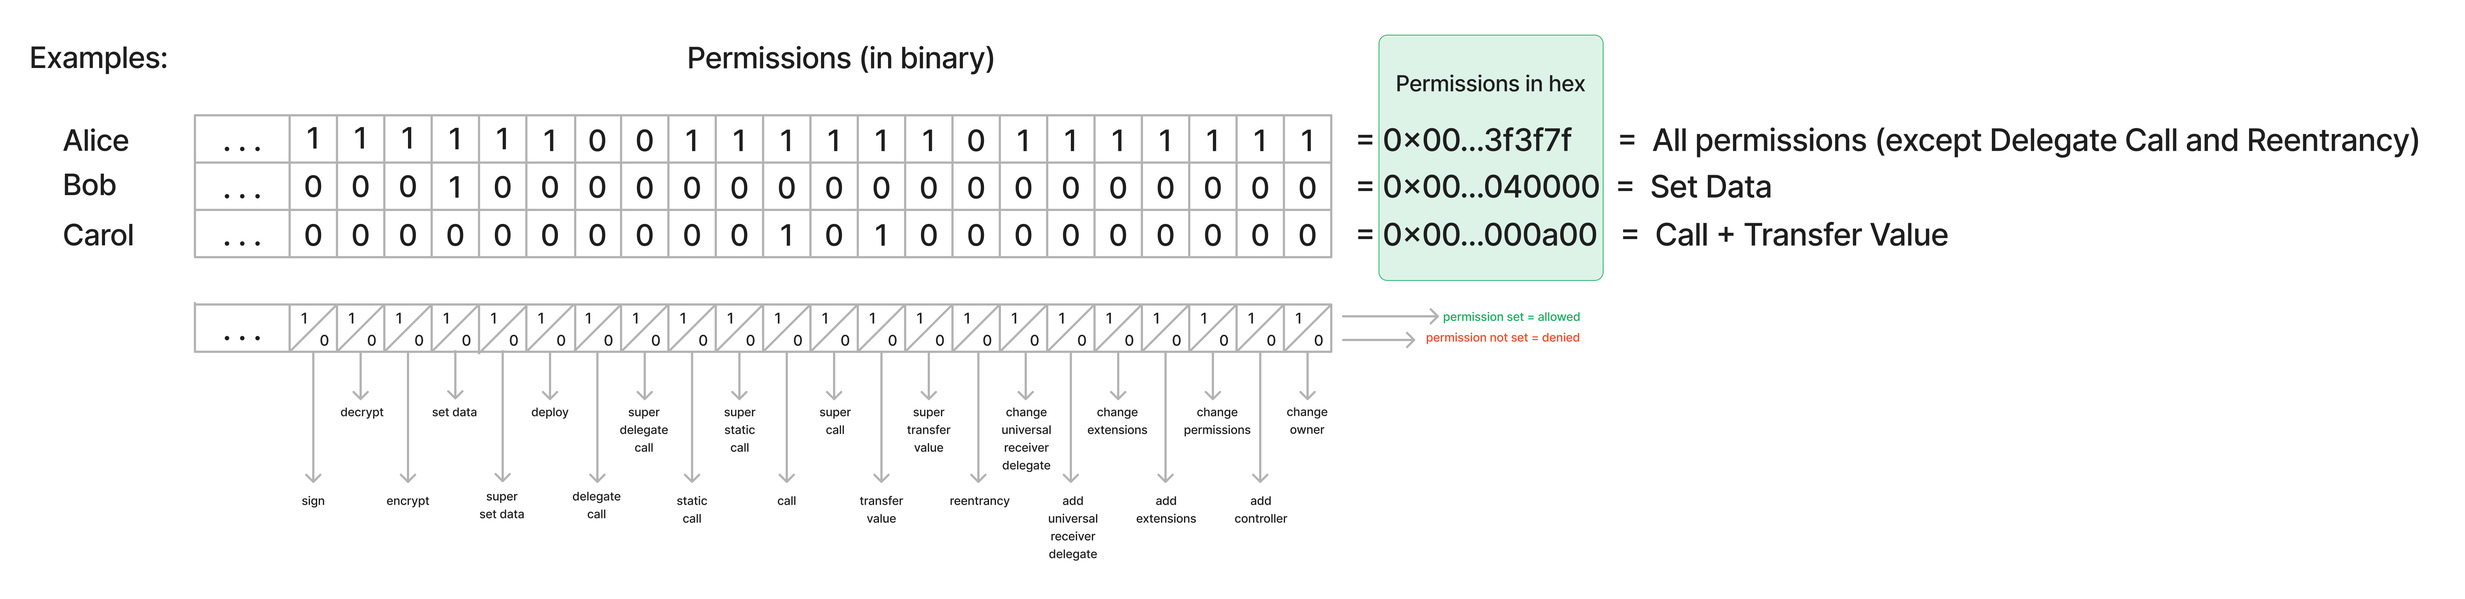
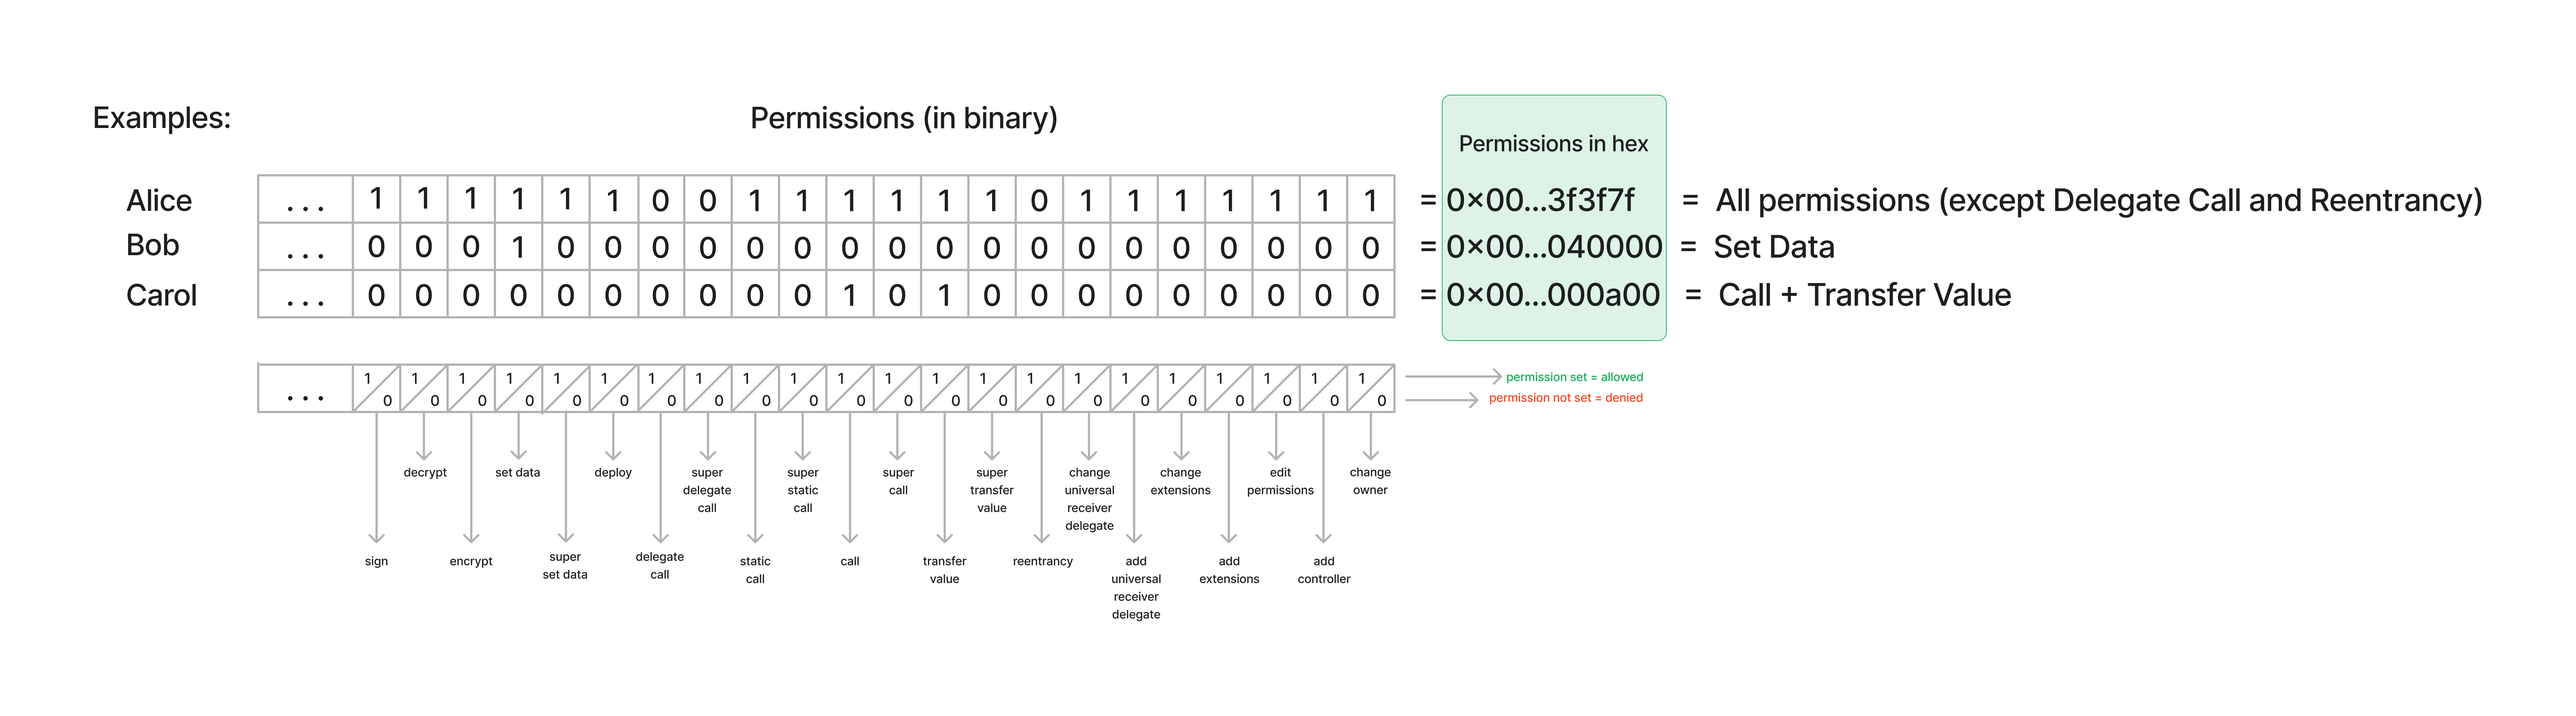
Update permission name `CHANGE` to `EDIT`

diff --git a/docs/standards/universal-profile/lsp6-key-manager.md b/docs/standards/universal-profile/lsp6-key-manager.md
@@ -82,29 +82,29 @@ The `ADDCONTROLLER` permission is needed to:
 </details>
 
 <details>
-    <summary><code>CHANGEPERMISSIONS</code> - Allows changing existing permissions of controllers.</summary>
+    <summary><code>EDITPERMISSIONS</code> - Allows changing existing permissions of controllers.</summary>
     <p style={{marginBottom: '3%', marginTop: '2%', textAlign: 'center'}}>
         <b>value = </b><code>0x0000000000000000000000000000000000000000000000000000000000000004</code>
     </p>
 
 :::caution Caution:
-Be aware that a controller with `CHANGEPERMISSIONS` can also edit its own permissions!
+Be aware that a controller with `EDITPERMISSIONS` can also edit its own permissions!
 :::
 
 This permission allows for **editing permissions** of any controller (permissioned address) that has some permissions already set on the ERC725Account (including itself, see warning above).
 
-The `CHANGEPERMISSIONS` is also needed to:
+The `EDITPERMISSIONS` is also needed to:
 
 - 🗑 **Remove** a controller from the list of `AddressPermissions[]`, meaning:
   - removing the controller `address` at a specific index in `AddressPermissions[index]`
   - decreasing the `AddressPermissions[]` Array length (to describe that a controller has been removed).
 - 🖊 **Edit** an entry in the `AddressPermissions[index]` Array, meaning changing the address stored at a specific index.
 
-![CHANGE Permissions](/img/standards/lsp6/lsp6-change-permissions.jpeg)
+![EDIT Permissions](/img/standards/lsp6/lsp6-change-permissions.jpeg)
 
-Bear in mind that the behavior of `CHANGEPERMISSIONS` slightly varies depending on the new permissions value being set (see figure below).
+Bear in mind that the behavior of `EDITPERMISSIONS` slightly varies depending on the new permissions value being set (see figure below).
 
-![CHANGE Permissions](/img/standards/lsp6/lsp6-change-permissions-variants.jpeg)
+![EDIT Permissions](/img/standards/lsp6/lsp6-change-permissions-variants.jpeg)
 
 </details>
 
@@ -279,7 +279,7 @@ However, this permission restricts the controller to set data for only specific 
 
 A controller with permission `SETDATA` cannot set or edit data keys related to:
 
-- permissions: requires the permission of `ADDCONTROLLER` or `CHANGEPERMISSIONS`.
+- permissions: requires the permission of `ADDCONTROLLER` or `EDITPERMISSIONS`.
 - LSP1 data keys: requires the permission of `ADDUNIVERSALRECEIVERDELEGATE` or `CHANGEUNIVERSALRECEIVERDELEGATE`.
 - LSP17 data keys: requires the permission of `ADDEXTENSIONS` or `CHANGEEXTENSIONS`.
 
@@ -411,7 +411,7 @@ permissions: CALL + TRANSFERVALUE
 <TabItem value="example2" label="Example 2">
 
 ```solidity
-permissions: CHANGEPERMISSIONS + SETDATA
+permissions: EDITPERMISSIONS + SETDATA
 
   0x0000000000000000000000000000000000000000000000000000000000000004 (4 in decimal)
 + 0x0000000000000000000000000000000000000000000000000000000000040000 (262144)

diff --git a/docs/tools/erc725js/classes/ERC725.md b/docs/tools/erc725js/classes/ERC725.md
@@ -223,7 +223,7 @@ ERC725.decodePermissions('0x0000000000000000000000000000000000000000000000000000
 /**
 {
   CHANGEOWNER: false,
-  CHANGEPERMISSIONS: false,
+  EDITPERMISSIONS: false,
   ADDCONTROLLER: false,
   SETDATA: false,
   CALL: true,
@@ -239,7 +239,7 @@ ERC725.decodePermissions('0x0000000000000000000000000000000000000000000000000000
 /**
 {
   CHANGEOWNER: false,
-  CHANGEPERMISSIONS: true,
+  EDITPERMISSIONS: true,
   ADDCONTROLLER: false,
   SETDATA: true,
   CALL: false,
@@ -669,7 +669,7 @@ An object with [LSP6 KeyManager Permissions] as keys and a `boolean` as value. A
 ERC725.encodePermissions({
   CHANGEOWNER: false,
   ADDCONTROLLER: false,
-  CHANGEPERMISSIONS: false,
+  EDITPERMISSIONS: false,
   ADDEXTENSIONS: false,
   CHANGEEXTENSIONS: true,
   ADDUNIVERSALRECEIVERDELEGATE: false,
@@ -699,7 +699,7 @@ ERC725.encodePermissions({
 }),
[1 lines of base64/hex data omitted]
 ERC725.encodePermissions({
-  CHANGEPERMISSIONS: true,
+  EDITPERMISSIONS: true,
   CHANGEEXTENSIONS: true,
   CHANGEUNIVERSALRECEIVERDELEGATE: true,
   SETDATA: true,
@@ -709,7 +709,7 @@ ERC725.encodePermissions({
 
 // This method is also available on the instance:
 myErc725.encodePermissions({
-  CHANGEPERMISSIONS: true,
+  EDITPERMISSIONS: true,
   SETDATA: true,
 }),
 ```

diff --git a/docs/tools/lsp-factoryjs/classes/universal-profile.md b/docs/tools/lsp-factoryjs/classes/universal-profile.md
@@ -26,7 +26,7 @@ After, it will:
 By default the [LSP1 Universal Receiver Delegate](../../../standards/generic-standards/lsp1-universal-receiver-delegate) contract that is specified in the [versions file](https://github.com/lukso-network/tools-lsp-factory/blob/main/src/versions.json) will be attached to the Universal Profile. A custom Universal Receiver Delegate can be optionally deployed, by passing custom bytecode to the [`options`](../deployment/universal-profile#deployment-configuration) object.
 
 :::caution
-The deployment key passed to LSPFactory will be given `CHANGEOWNER` and `CHANGEPERMISSIONS` [LSP6 permissions](../../../standards/universal-profile/lsp6-key-manager#-types-of-permissions) in order to carry out the Universal Profile deployment.
+The deployment key passed to LSPFactory will be given `CHANGEOWNER` and `EDITPERMISSIONS` [LSP6 permissions](../../../standards/universal-profile/lsp6-key-manager#-types-of-permissions) in order to carry out the Universal Profile deployment.
 
 These permisisons are revoked as the final step of deployment. It is important this step is completed correctly to avoid security risks.
 

diff --git a/docs/tools/lsp-factoryjs/deployment/universal-profile.md b/docs/tools/lsp-factoryjs/deployment/universal-profile.md
@@ -27,7 +27,7 @@ After, it will:
 These smart contracts linked with some [LSP3 Profile Metadata](../../../standards/universal-profile/lsp3-profile-metadata) form a Universal Profile. The metadata is the 'face' of your profile and contains information such as your name, description, and profile image.
 
 :::caution
-The deployment key passed to LSPFactory will be given `CHANGEOWNER` and `CHANGEPERMISSIONS` [LSP6 permissions](../../../standards/universal-profile/lsp6-key-manager#-types-of-permissions) in order to carry out the Universal Profile deployment.
+The deployment key passed to LSPFactory will be given `CHANGEOWNER` and `EDITPERMISSIONS` [LSP6 permissions](../../../standards/universal-profile/lsp6-key-manager#-types-of-permissions) in order to carry out the Universal Profile deployment.
 
 These permisisons are revoked as the final step of deployment. It is important this step is completed correctly to avoid security risks.
 

diff --git a/docs/guides/key-manager/get-controllers.md b/docs/guides/key-manager/get-controllers.md
@@ -112,7 +112,7 @@ console.log(
 // decoded permission for 0x5F606b5b237623463a90F63230F9b929321dbCBa = {
 // "CHANGEOWNER": true,
 // "ADDCONTROLLER": true,
-// "CHANGEPERMISSIONS": true,
+// "EDITPERMISSIONS": true,
 // "ADDEXTENSIONS": true,
 // "CHANGEEXTENSIONS": true,
 // "ADDUNIVERSALRECEIVERDELEGATE": true,
